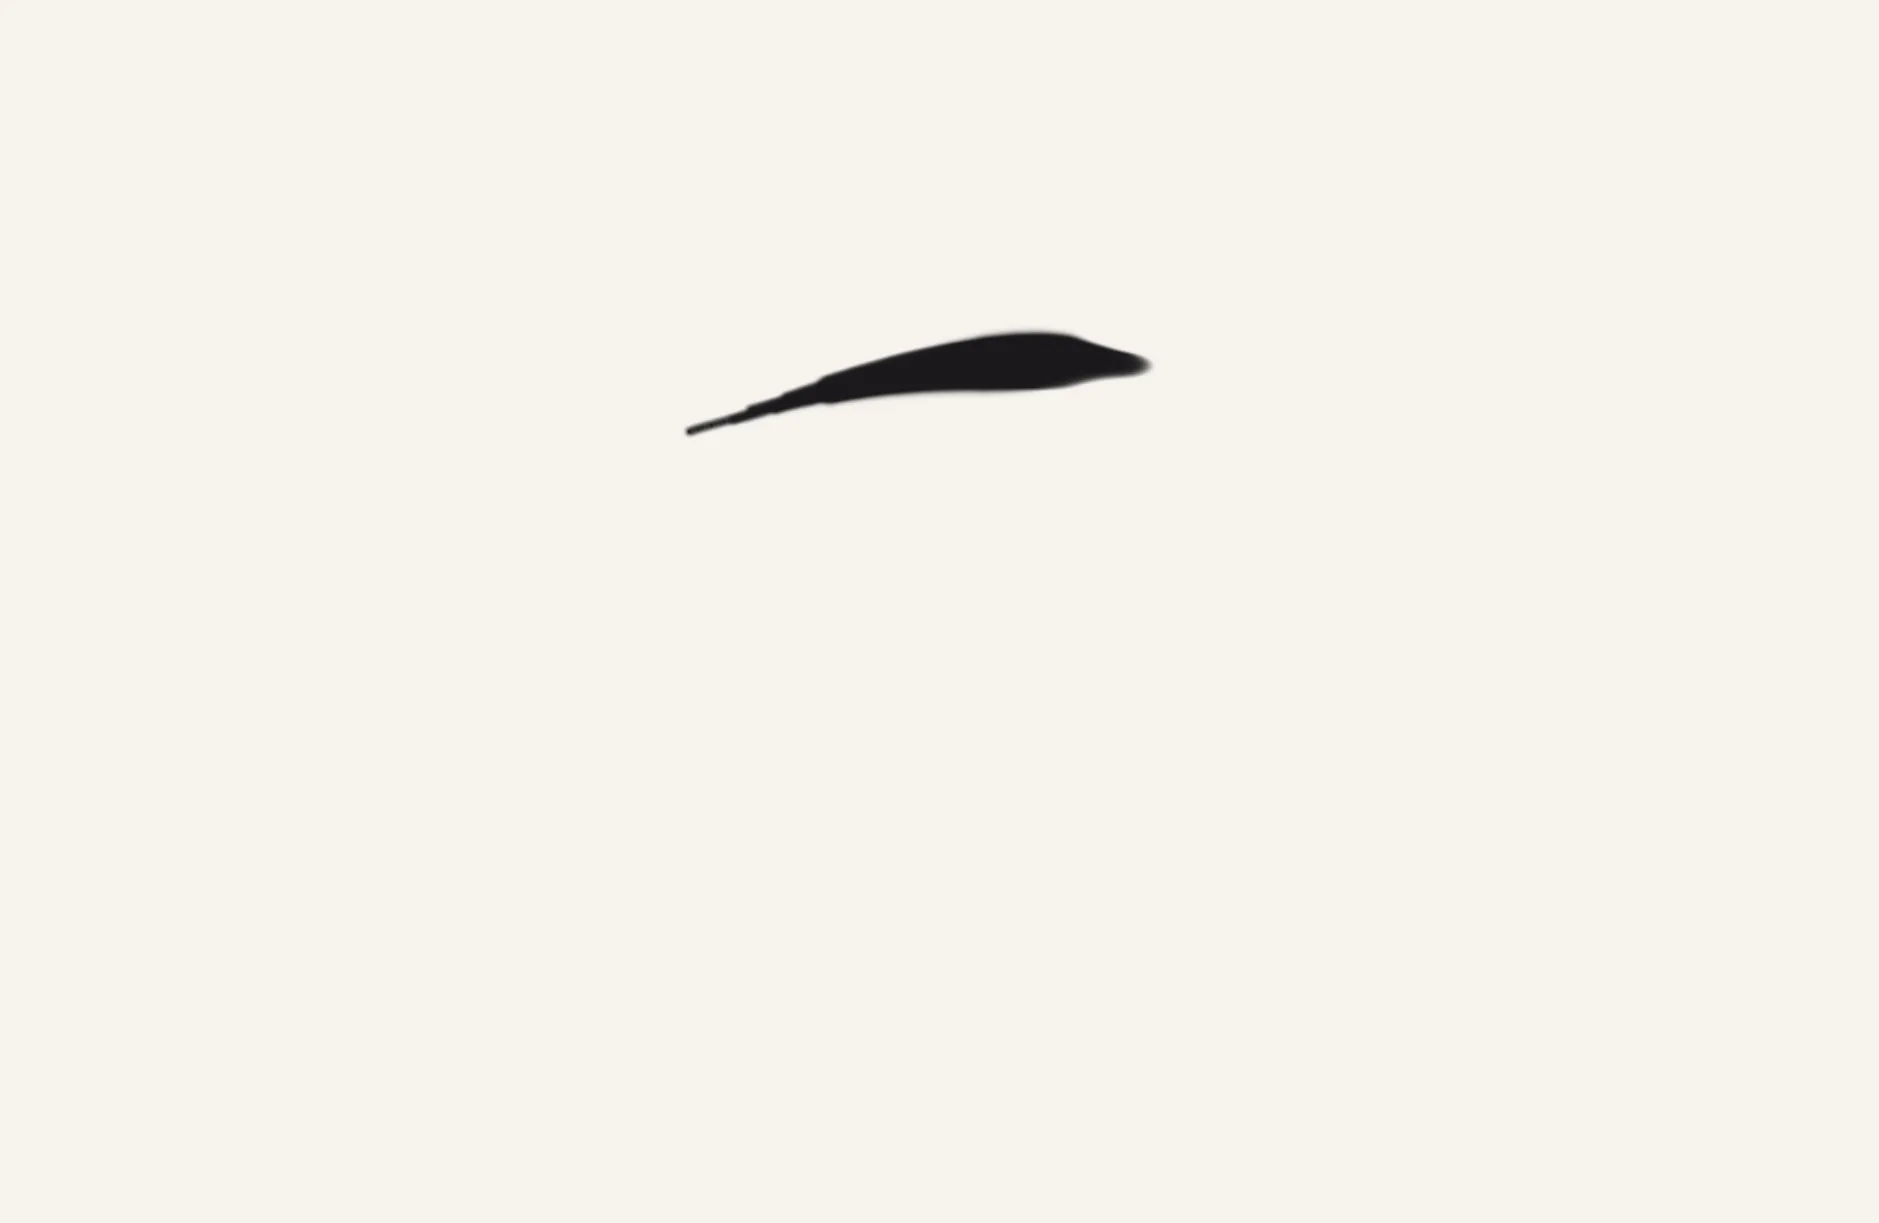
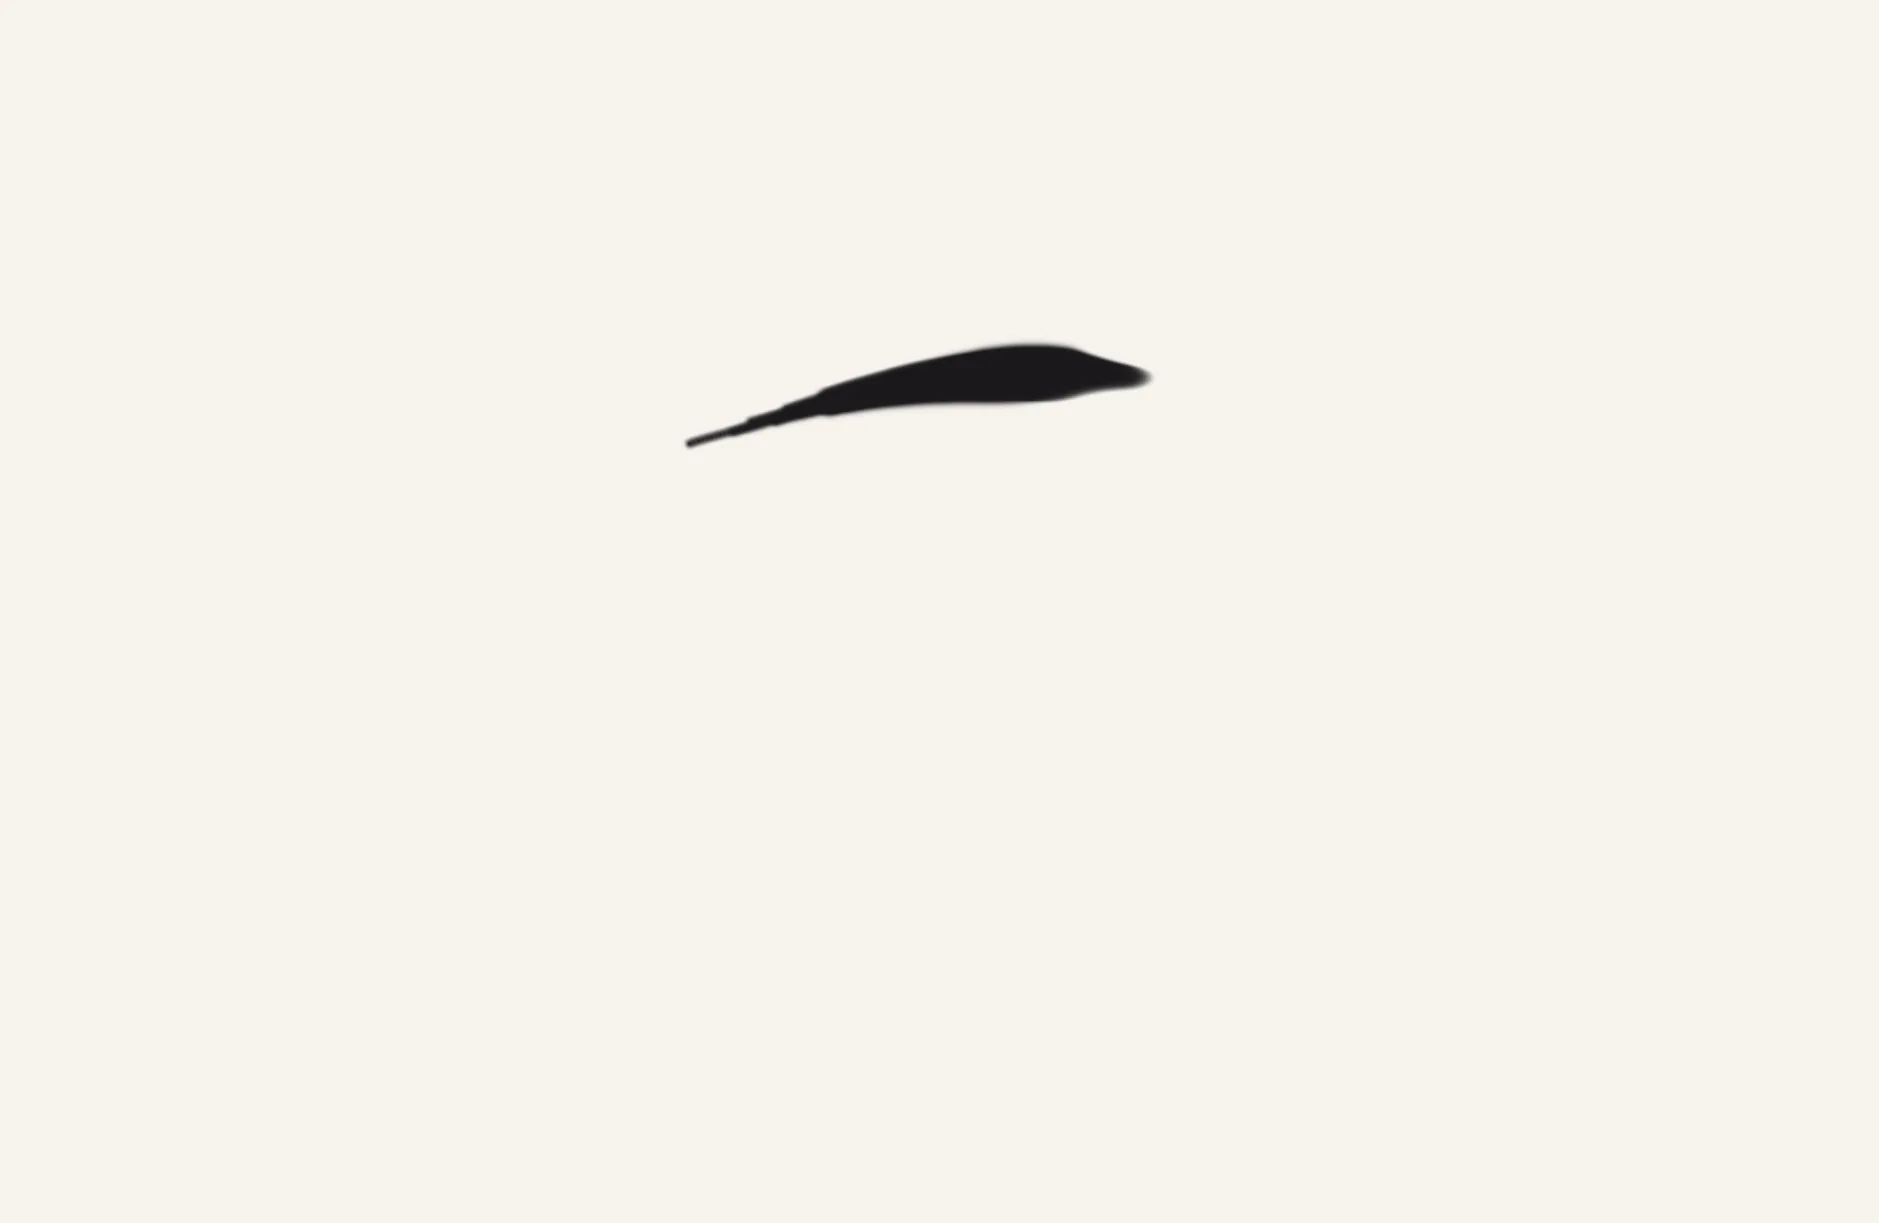
料紙: 一画の入りを帯の中へ（切り替えの下 14px + 太さぶん）。写しを焼き直し

Changed region(s): [[0.3395, 0.2486, 0.6173, 0.3729]]

diff --git a/src/components/ink/InkHero.tsx b/src/components/ink/InkHero.tsx
@@ -109,14 +109,14 @@ export function InkHero() {
       const pxX0 = n ? vw - 18 : vw - 36;
       const pxX1 = n ? vw * 0.42 : vw * 0.62;
       // 入りの太さ（半径 ≒ 0.02 × 箱の高さ）のぶん、切り替えから離す
-      const pxY0 = Math.max(navBottom + (n ? 18 : 0.025 * rect.height + 8), top + 4);
+      const pxY0 = Math.max(navBottom + (n ? 20 : 0.03 * rect.height + 14), top + 4);
       const pxY1 = Math.max(pxY0 + (n ? 40 : 60), wordTop - (n ? 4 : 8));
       const toU = (px: number) => (px - rect.left) / rect.width;
       const toV = (py: number) => 1 - (py - top) / rect.height;
       geo = { x0: toU(pxX0), y0: toV(pxY0), x1: toU(pxX1), y1: toV(pxY1) };
       // 墨が見える帯: 言語の切り替えの下から名乗りの字の上端まで。帯の外の墨は CSS の mask で
       // 消す（流れても字には被らない。棟梁 10/7「墨が動いた先に文字が被ると視認性 0」）
-      band = { top: navBottom - 8, bottom: wordTop - 4 };
+      band = { top: navBottom - 4, bottom: wordTop - 4 };
       if (box) {
         box.style.setProperty("--ink-top", `${band.top - top}px`);
         box.style.setProperty("--ink-bottom", `${band.bottom - top}px`);
